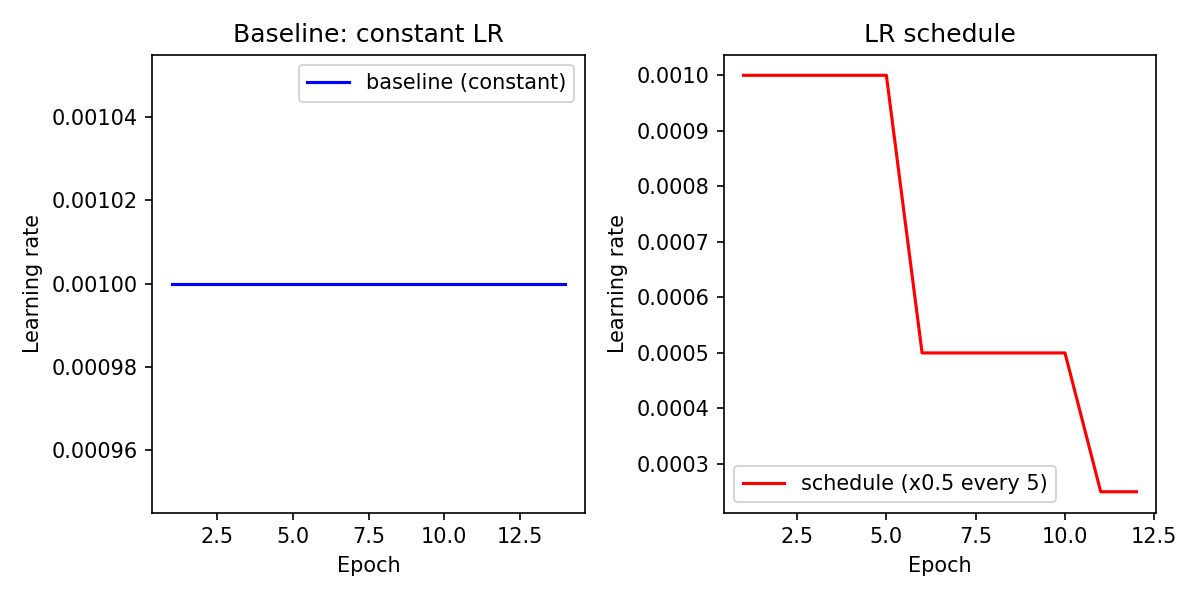
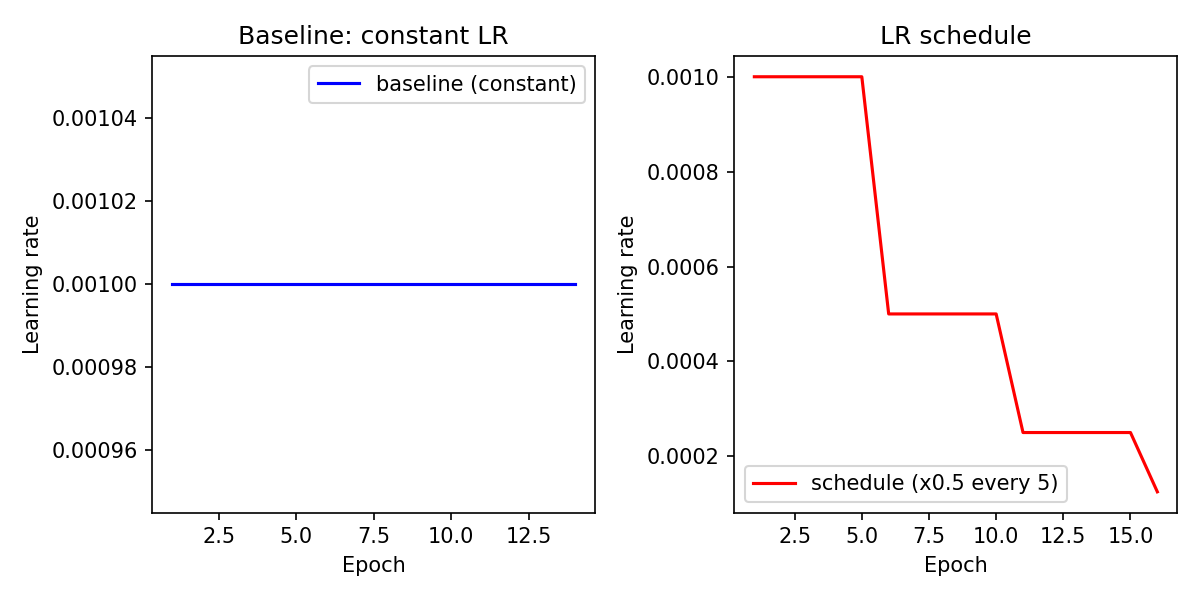
cv left to do

diff --git a/assg_3/feedback_outputs.py b/assg_3/feedback_outputs.py
@@ -1,11 +1,49 @@
+import torch
+import matplotlib.pyplot as plt
+
 from models import init_model, LeNet
-from train import train
-from import_data import load_data
+from train import train, evaluate
+from import_data import load_data, CIFAR10_CLASSES
+
+
+def visualize_outputs(model, dataloader, class_names, num_images=4):
+    model.eval()
+
+    images, labels = next(iter(dataloader))
+    images = images[:num_images]
+    labels = labels[:num_images]
+
+    with torch.no_grad():
+        final_out, fb1, fb2 = model(images, use_feedback=True)
+
+    final_preds = final_out.argmax(dim=1)
+    fb1_preds = fb1.argmax(dim=1)
+    fb2_preds = fb2.argmax(dim=1)
+
+    fig, axes = plt.subplots(1, num_images, figsize=(15, 3))
+
+    for i in range(num_images):
+        img = images[i].permute(1, 2, 0).cpu().numpy()
+
+        axes[i].imshow(img)
+        axes[i].axis('off')
+
+        axes[i].set_title(
+            f"GT: {class_names[labels[i]]}\n"
+            f"FB1: {class_names[fb1_preds[i]]}\n"
+            f"FB2: {class_names[fb2_preds[i]]}\n"
+            f"Final: {class_names[final_preds[i]]}"
+        )
+
+    plt.tight_layout()
+    plt.savefig(f"fb.png")
 
 
 def main():
     cif_ten_train, cif_ten_val, test_data = load_data(val_set_ratio=0.15)
     lenet, tl, ta, vl, va, _ = train(init_model(LeNet), cif_ten_train, cif_ten_val, use_feedback=True)
+    print(f'Test accuracy: {evaluate(lenet, test_data)[0]}')
+    visualize_outputs(lenet, test_data, CIFAR10_CLASSES)
 
 
 if __name__ == '__main__':

diff --git a/assg_3/embeddings.py b/assg_3/embeddings.py
@@ -3,7 +3,7 @@ from sklearn.manifold import TSNE
 import matplotlib.pyplot as plt
 
 from models import init_model, LeNet
-from import_data import load_data
+from import_data import load_data, CIFAR10_CLASSES
 
 
 def get_embeddings(model, test_data):
@@ -13,7 +13,7 @@ def get_embeddings(model, test_data):
 
     with torch.no_grad():
         for imgs, labels in test_data:
-            embeddings = model.get_embedding(imgs)
+            embeddings = model.get_embeddings(imgs)
             all_embeddings.append(embeddings.cpu())
             all_labels.append(labels)
 
@@ -31,19 +31,21 @@ def encode_tsne(embeddings):
 def plot_tsne(embeddings_2d, labels):
     plt.figure(figsize=(8, 6))
 
-    scatter = plt.scatter(
-        embeddings_2d[:, 0],
-        embeddings_2d[:, 1],
-        c=labels,
-        cmap='tab10',
-        s=10
-    )
+    for class_idx, class_name in enumerate(CIFAR10_CLASSES):
+        indices = labels == class_idx
+        plt.scatter(
+            embeddings_2d[indices, 0],
+            embeddings_2d[indices, 1],
+            label=class_name,
+            s=10
+        )
 
-    plt.colorbar(scatter)
+    plt.legend(markerscale=2, fontsize=8)
     plt.title("t-SNE of FC Layer (Test Set)")
     plt.xlabel("Dim 1")
     plt.ylabel("Dim 2")
-    plt.show()
+    plt.tight_layout()
+    plt.savefig("tsne.png")
 
 
 def main():

diff --git a/assg_3/cross_validation.py b/assg_3/cross_validation.py
@@ -1,0 +1,30 @@
+import torch
+from torch.utils.data import DataLoader, Subset
+from sklearn.model_selection import KFold
+
+from import_data import load_data
+from models import init_model, LeNet
+from train import train
+
+
+def main():
+    train_data, test_data = load_data(cv=True)
+    test_loader = DataLoader(test_data, batch_size=32, shuffle=False)
+
+    kf = KFold(n_splits=5, shuffle=True)
+
+    for fold, (train_idx, val_idx) in enumerate(kf.split(train_data)):
+        print(f"Fold {fold + 1}")
+
+        train_subset = Subset(train_data, train_idx)
+        val_subset = Subset(train_data, val_idx)
+
+        train_loader = DataLoader(train_subset, batch_size=32, shuffle=True)
+        val_loader = DataLoader(val_subset, batch_size=32, shuffle=False)
+
+        # Now train your model with train_loader, evaluate with val_loader
+        lenet, tl, ta, vl, va, _ = train(init_model(LeNet), train_loader, val_loader)
+
+
+if __name__ == '__main__':
+    main()

diff --git a/assg_3/import_data.py b/assg_3/import_data.py
@@ -43,7 +43,7 @@ def train_validation_split(dataset, val_set_ratio):
     return train_data, validation_data
 
 
-def load_data(dataset='CIF_TEN', val_set_ratio=0.15, batch_size=32):
+def load_data(dataset='CIF_TEN', val_set_ratio=0.15, batch_size=32, cv=False):
     if dataset == 'CIF_TEN':
         dataset = CIF_TEN
     elif dataset == 'CIF_HUNDRED':
@@ -53,6 +53,9 @@ def load_data(dataset='CIF_TEN', val_set_ratio=0.15, batch_size=32):
 
     all_train_data = dataset(root='data', download=True, transform=ToTensor())
     test_data = dataset(root='data', download=True, transform=ToTensor(), train=False)
+
+    if cv:
+        return all_train_data, test_data
 
     print('Loading dataset', type(all_train_data))
     print('All train samples', len(all_train_data))

diff --git a/assg_3/models.py b/assg_3/models.py
@@ -1,6 +1,6 @@
 import torch
 import torch.nn as nn
-from torchsummary import summary
+from torchinfo import summary
 
 
 class LeNet(nn.Module):
@@ -118,9 +118,9 @@ def init_model(model_class=LeNet):
 
 
 if __name__ == '__main__':
-    summary(LeNet(), (3, 32, 32))
-    summary(LeNetVariant1(), (3, 32, 32))
-    summary(LeNetVariant2(), (3, 32, 32))
+    summary(LeNet(), input_size=(1, 3, 32, 32), verbose=1)
+    summary(LeNetVariant1(), input_size=(1, 3, 32, 32), verbose=1)
+    summary(LeNetVariant2(), input_size=(1, 3, 32, 32), verbose=1)
 
     x = torch.randn(1, 3, 32, 32)
     print(LeNet()(x).shape)

diff --git a/assg_3/train.py b/assg_3/train.py
@@ -2,7 +2,6 @@ import os
 import torch
 import torch.nn as nn
 from torch.optim import Adam
-from sklearn.metrics import confusion_matrix
 
 from models import init_model, LeNet, LeNetVariant1, LeNetVariant2
 from models import CIFAR100Variant2, CIFAR100LeNet, CIFAR100Variant1
